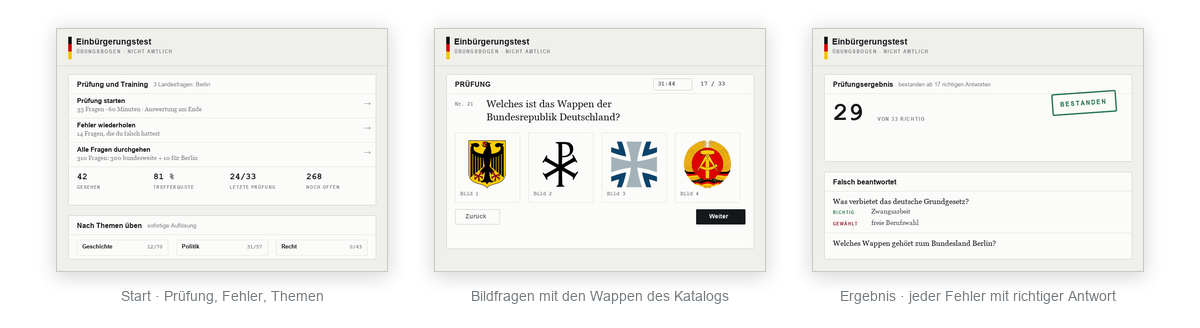
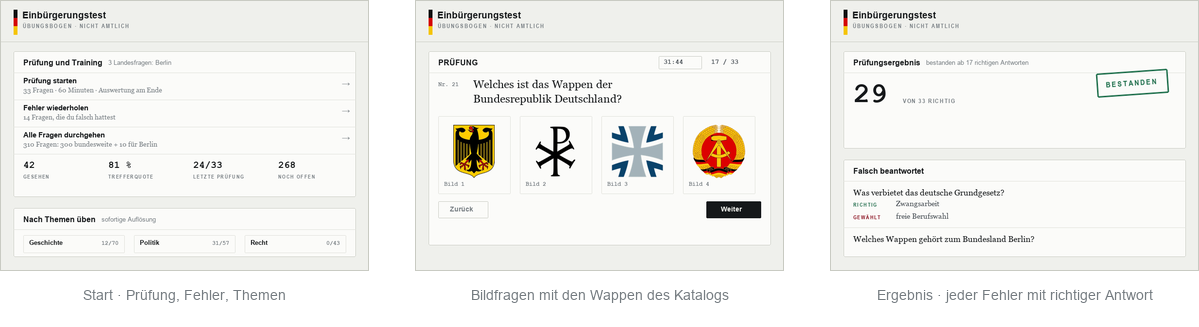
Streifen bündig zum Titelbild
Das Titelbild reicht bis an den Rand seiner Datei, der Streifen hatte
aussen noch 56 px Luft - im README standen die drei Bildschirme dadurch
schmaler als das Bild darüber. Die äusseren Ränder sind weg, Abstand
gibt es nur noch zwischen den Karten, und die Breite ist auf ein
Vielfaches ohne Restpixel gesetzt, damit auch rechts nichts
Durchsichtiges stehen bleibt.

diff --git a/build/make_screens.py b/build/make_screens.py
@@ -135,23 +135,19 @@ img.save('screenshots/screen-3.png')
 CAPS = ('Start · Prüfung, Fehler, Themen',
         'Bildfragen mit den Wappen des Katalogs',
         'Ergebnis · jeder Fehler mit richtiger Antwort')
-# dieselbe Breite und dieselben Ränder wie das Titelbild (1200 px, 56 px
-# Rand), damit die Streifen im README auf einer Linie mit ihm sitzen
-CW, PAD, GAP, CAP = 1200, 56, 46, 56
-SW = (CW - 2 * PAD - 2 * GAP) // 3
-strip = Image.new('RGBA', (CW, PAD // 2 + int(SW * H / W) + CAP), (0, 0, 0, 0))
+# Das Titelbild reicht bis an den Rand seiner Datei. Der Streifen muss
+# das auch: keine äusseren Ränder, nur Luft zwischen den Karten, sonst
+# stehen die drei Bildschirme im README schmaler als das Bild darüber.
+CW, GAP, CAP = 1200, 46, 56
+SW = (CW - 2 * GAP) // 3
+CW = SW * 3 + GAP * 2      # Restpixel der Division nicht als durchsichtigen Rand stehen lassen
+strip = Image.new('RGBA', (CW, int(SW * H / W) + CAP), (0, 0, 0, 0))
 sd = ImageDraw.Draw(strip)
 for i, name in enumerate(('screen-1', 'screen-2', 'screen-3')):
     im = Image.open(f'screenshots/{name}.png')
     im = im.resize((SW, int(SW * H / W)), Image.LANCZOS)
-    x = PAD + i * (SW + GAP)
-    top = PAD // 2
-    # weicher Schatten, damit die drei als eigene Karten lesbar sind und
-    # nicht als ein durchgehendes Feld
-    sh = Image.new('RGBA', (SW + 40, im.height + 40), (0, 0, 0, 0))
-    ImageDraw.Draw(sh).rectangle([20, 22, SW + 19, im.height + 23], fill=(20, 24, 26, 46))
-    sh = sh.filter(ImageFilter.GaussianBlur(9))
-    strip.alpha_composite(sh, (x - 20, top - 20))
+    x = i * (SW + GAP)
+    top = 0
     strip.paste(im, (x, top))
     sd.rectangle([x, top, x + SW - 1, top + im.height - 1], outline=RULE)
     tw = sd.textlength(CAPS[i], ar(14))
